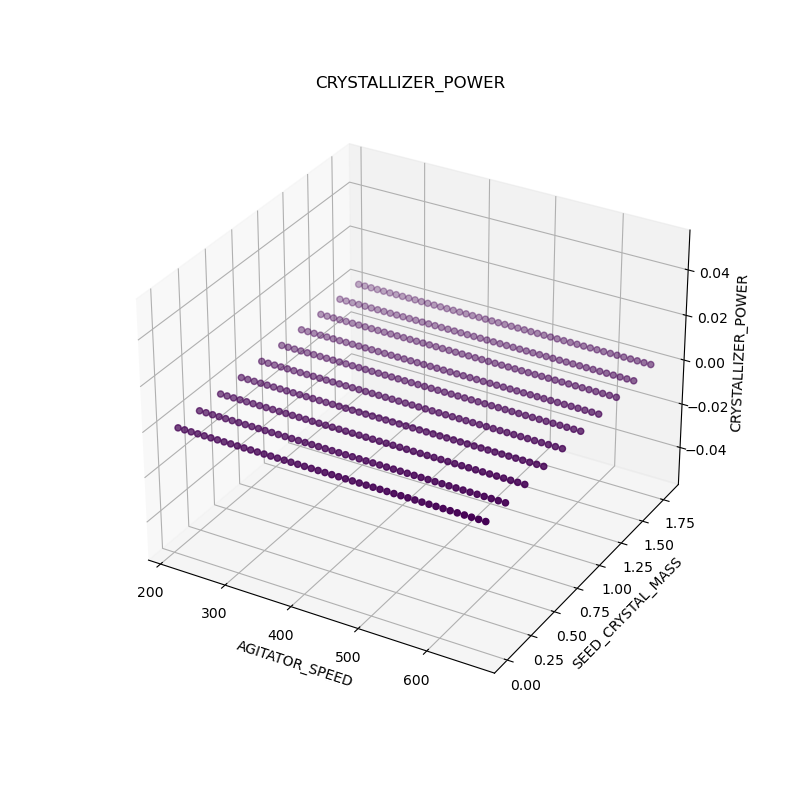
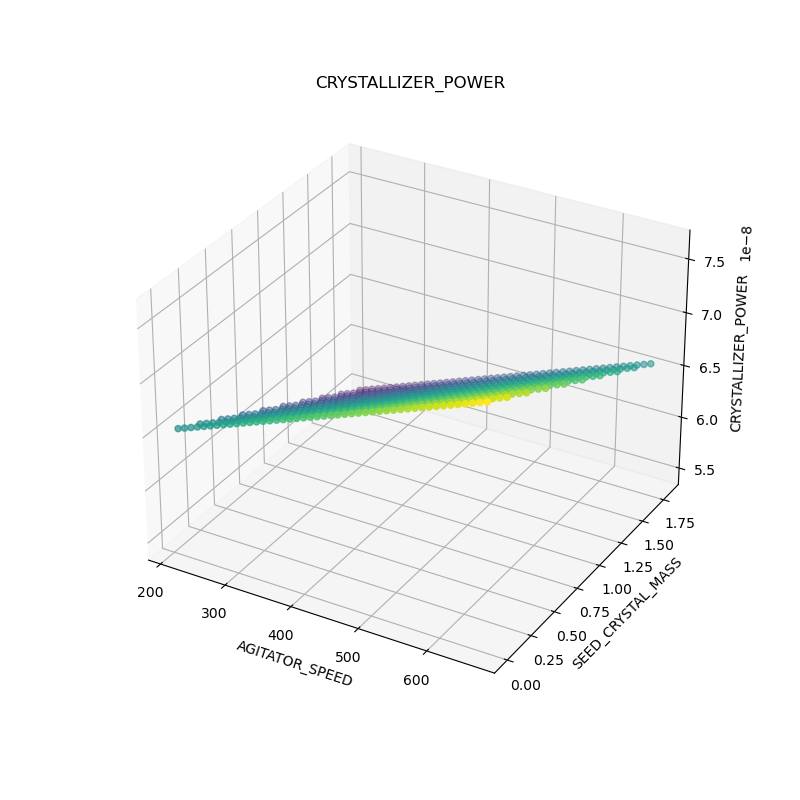
Just run chained linear and random forest

diff --git a/crystallization_example/run_crystallization_regression.py b/crystallization_example/run_crystallization_regression.py
@@ -26,11 +26,11 @@ class CrystallizationRegression:
         ub_ls = [665, 2]
         step_size_ls = [10, 0.2]
 
-        print('=' * 50)
-
-        crystallization_linear_regression = RunRegression(self.X, self.Y, 'LinearRegression', plot_individual_bool=True)
-        crystallization_linear_regression()
-        crystallization_linear_regression.plot_optimized_maximum(lb_ls, ub_ls, step_size_ls)
+        # print('=' * 50)
+        #
+        # crystallization_linear_regression = RunRegression(self.X, self.Y, 'LinearRegression', plot_individual_bool=True)
+        # crystallization_linear_regression()
+        # crystallization_linear_regression.plot_optimized_maximum(lb_ls, ub_ls, step_size_ls)
 
         print('=' * 50)
 
@@ -39,10 +39,6 @@ class CrystallizationRegression:
         crystallization_random_forest_regression()
         crystallization_random_forest_regression.plot_optimized_maximum(lb_ls, ub_ls, step_size_ls)
 
-        # crystallization_linear_direct = RunRegression(self.X, self.Y, 'DirectMultiOutput_Linear', plot_individual_bool=True)
-        # crystallization_linear_direct()
-
-        # might not use this one in the final results 
         print('=' * 50)
 
         crystallization_linear_chained = RunRegression(self.X, self.Y, 'ChainedMultiOutput_Linear',

diff --git a/Regressions.py b/Regressions.py
@@ -29,7 +29,7 @@ dict_reg_type = {'LinearRegression': LinearRegression,
                  'RandomForestRegressor': RandomForestRegressor,
                  'DecisionTreeRegressor': DecisionTreeRegressor,
                  DirectMultiOutput + '_Linear': LinearSVR,
-                 ChainedMultiOutput + '_Linear': LinearSVR}
+                 ChainedMultiOutput + '_Linear': LinearRegression}
 
 warnings.filterwarnings('ignore', category=ConvergenceWarning)
 
